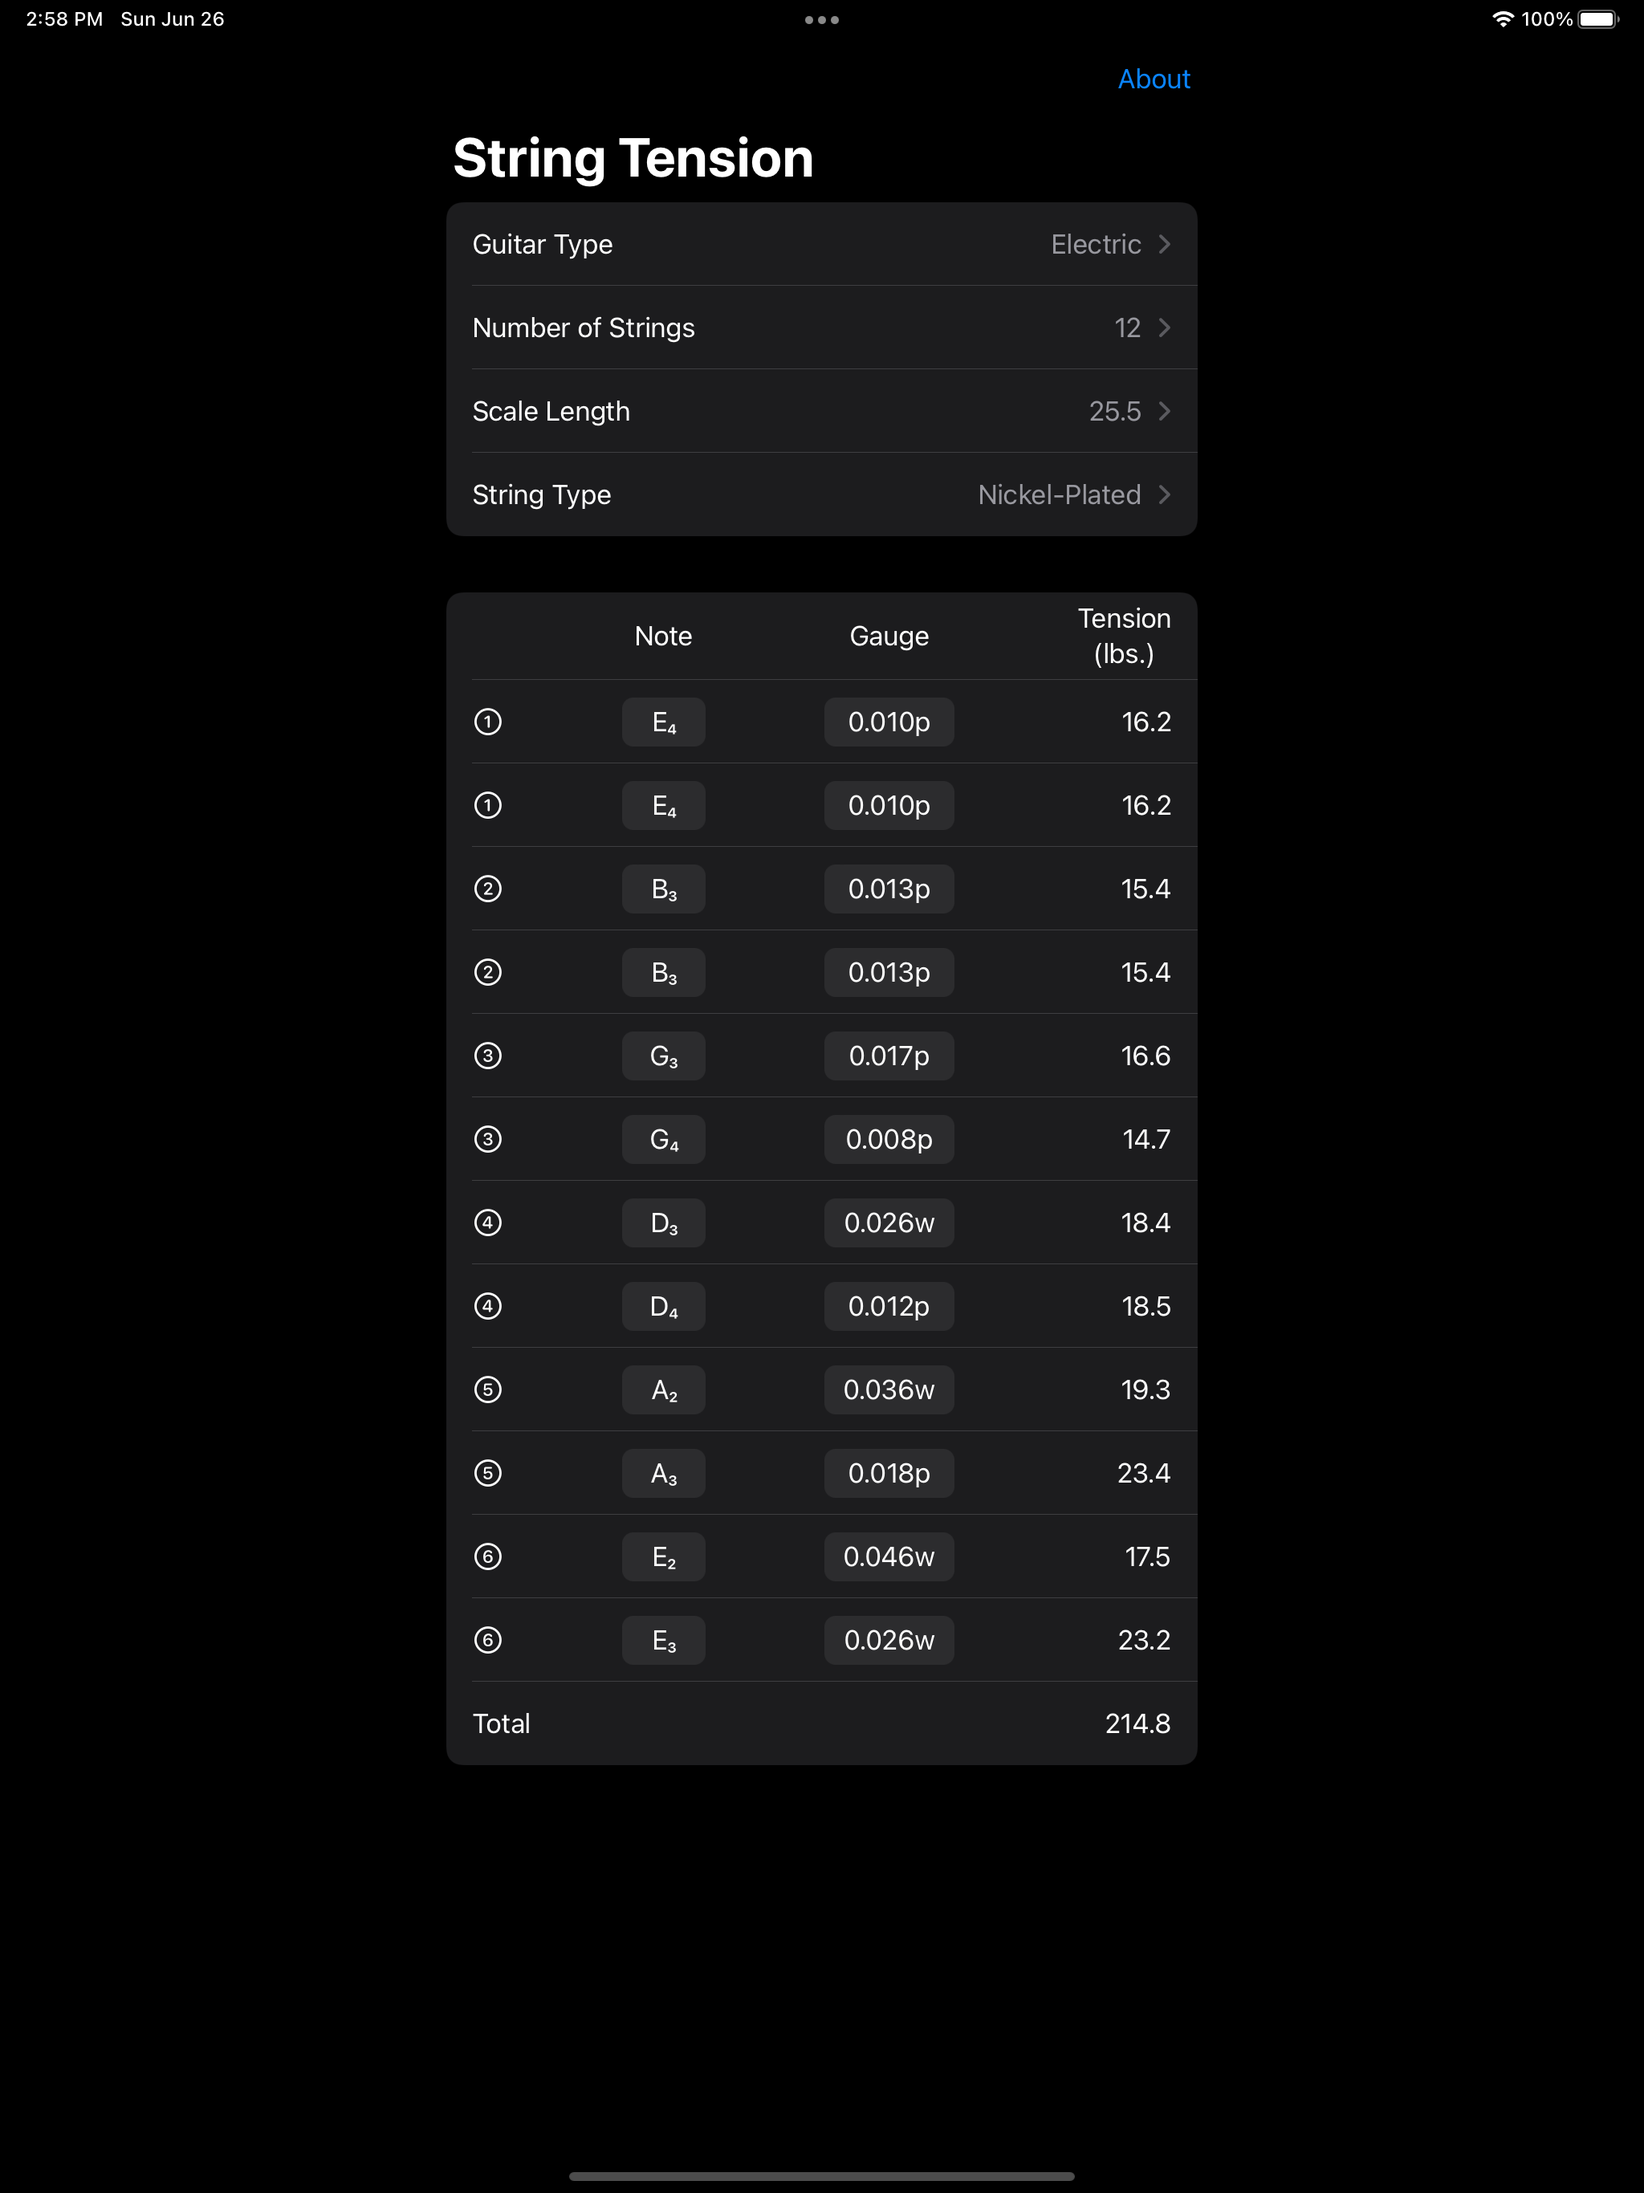
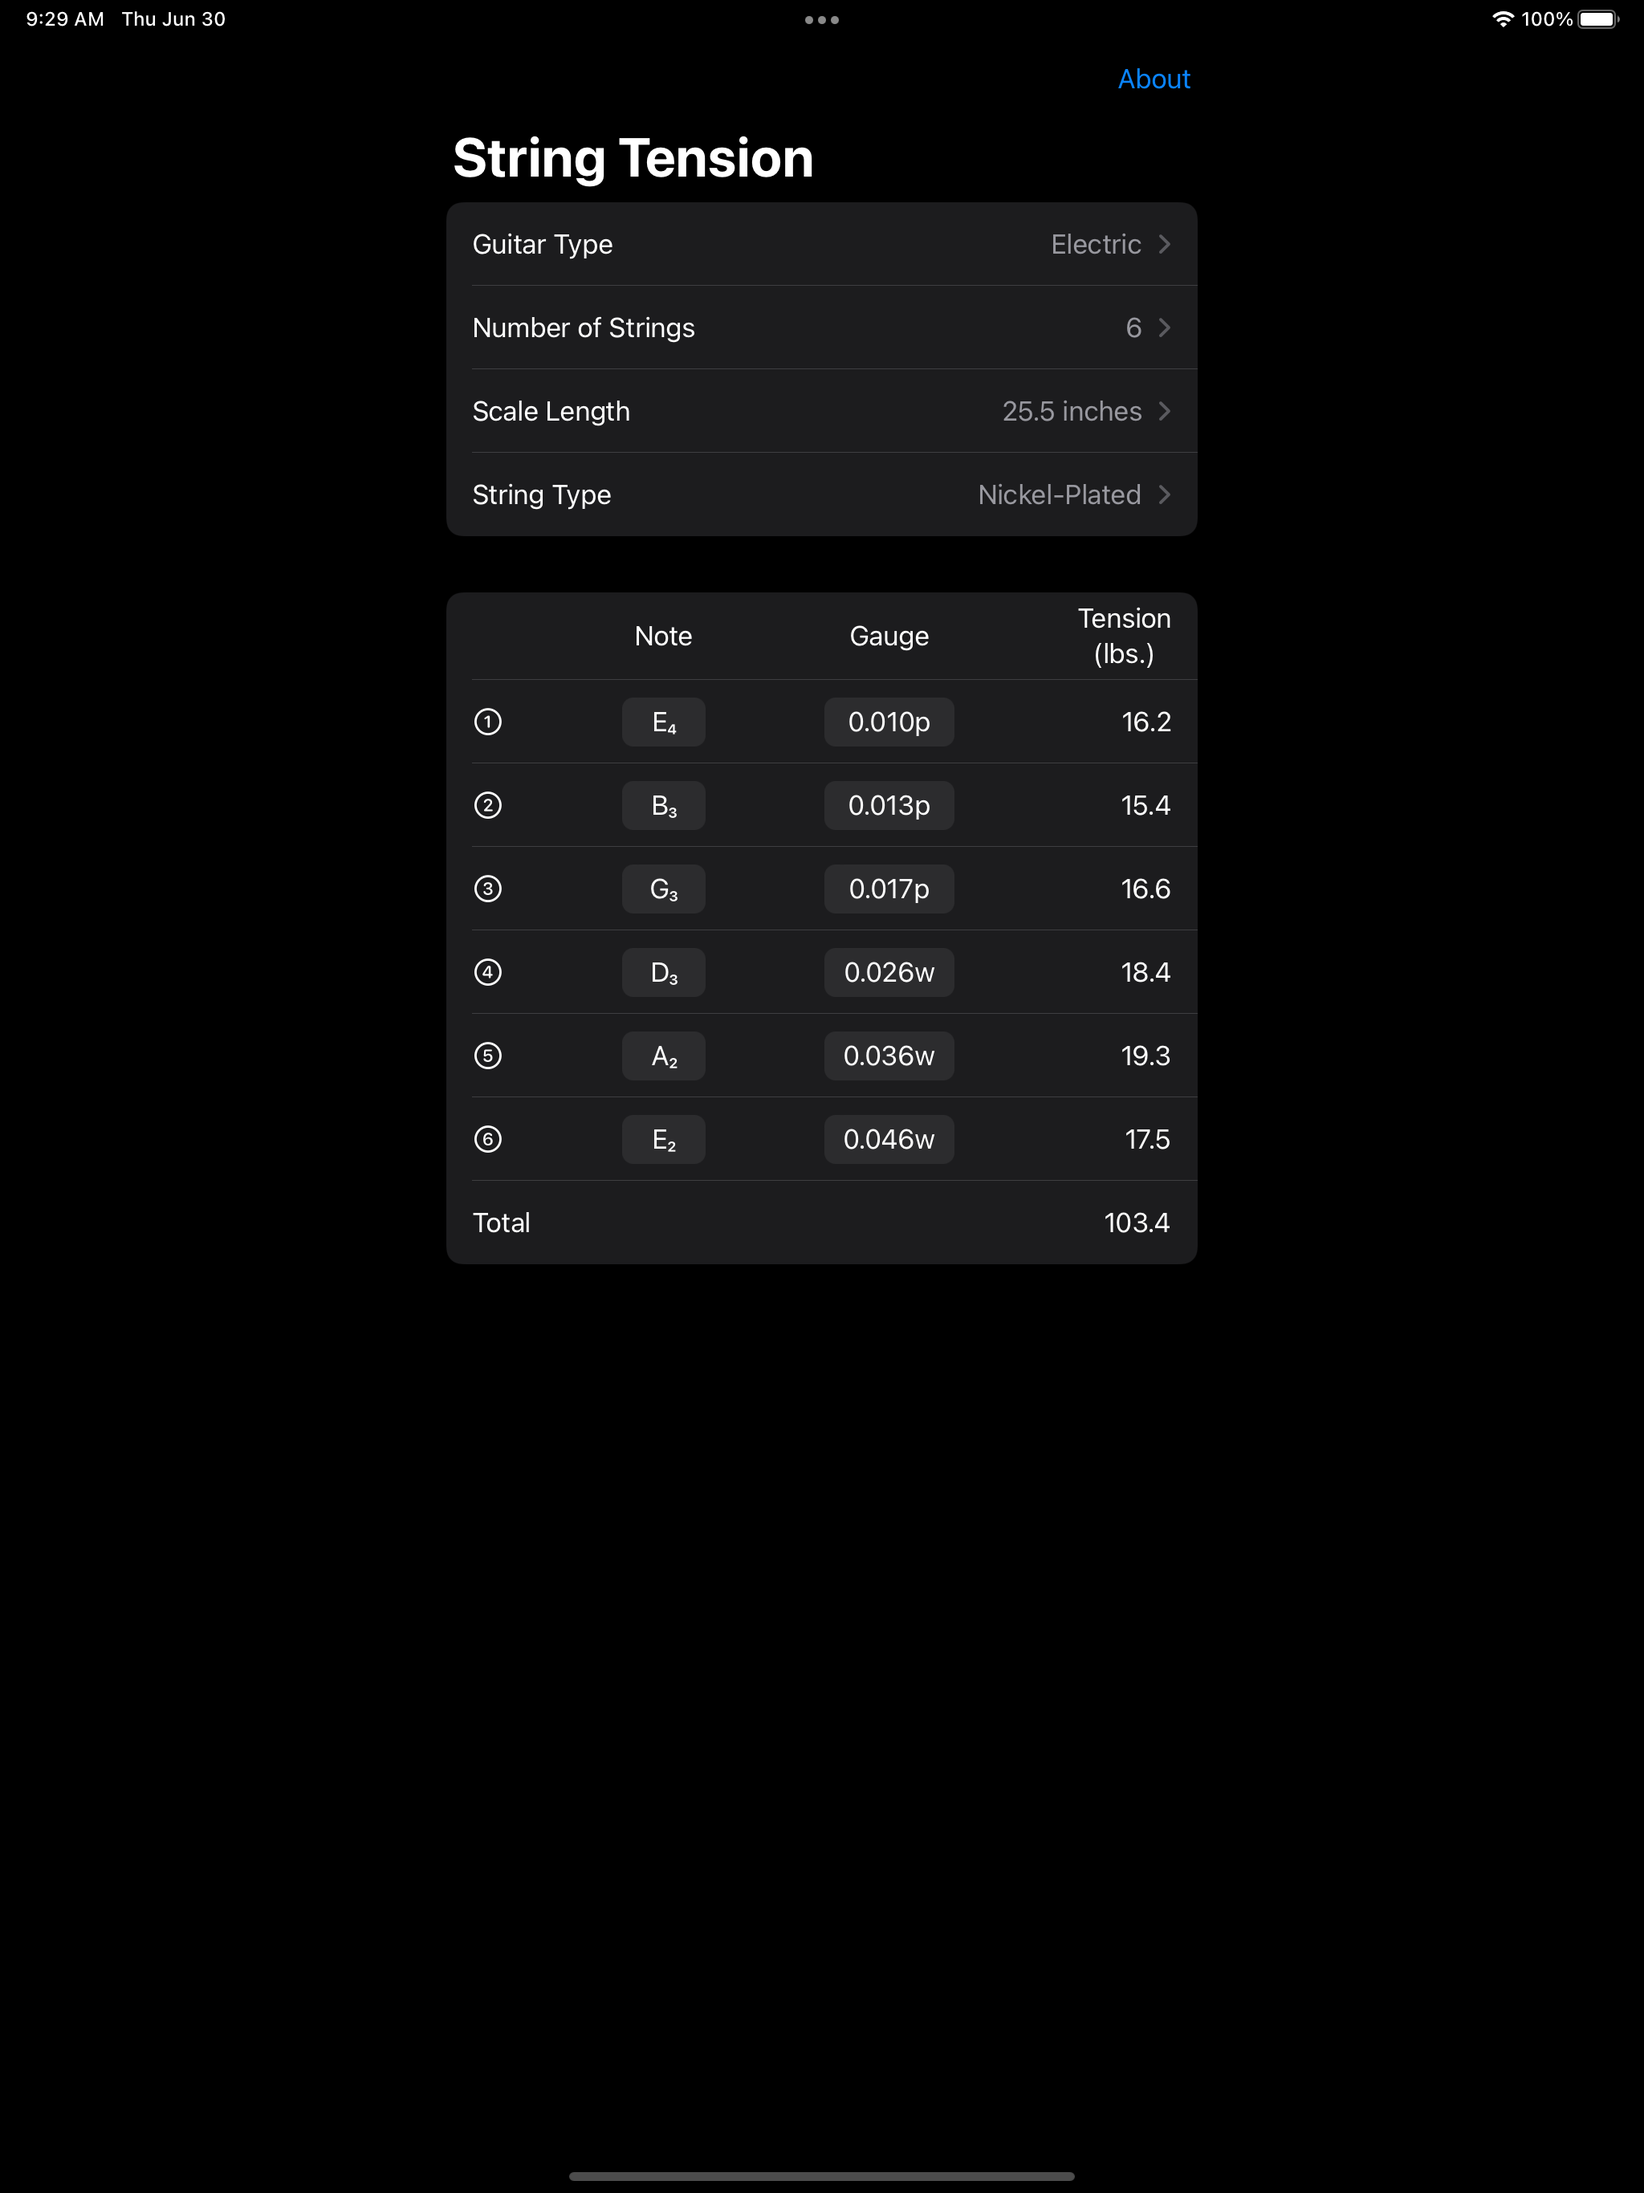
- Add units to scale length on main screen - Regenerate screenshots - Fix bug when sorting StringChoices with overlapping unwound & wound gauges - Increment the version and build number

diff --git a/Tensity/View/ContentView.swift b/Tensity/View/ContentView.swift
@@ -46,7 +46,7 @@ struct ContentView: View {
                         HStack {
                             Text("Scale Length")
                             Spacer()
-                            Text(guitarModel.scaleLength, format: .number)
+                            Text(guitarModel.scaleLength.formatted() + " inches")
                                 .foregroundColor(Color.secondary)
                         }
                     }

diff --git a/Tensity/Model/StringData.swift b/Tensity/Model/StringData.swift
@@ -80,7 +80,7 @@ class StringChoice: Codable, Comparable, Equatable, Hashable, Identifiable {
     }
 
     static func < (lhs: StringChoice, rhs: StringChoice) -> Bool {
-        if (lhs.wound == rhs.wound) {
+        if (lhs.wound != rhs.wound) {
             return rhs.wound
         } else {
             return lhs.gauge < rhs.gauge
